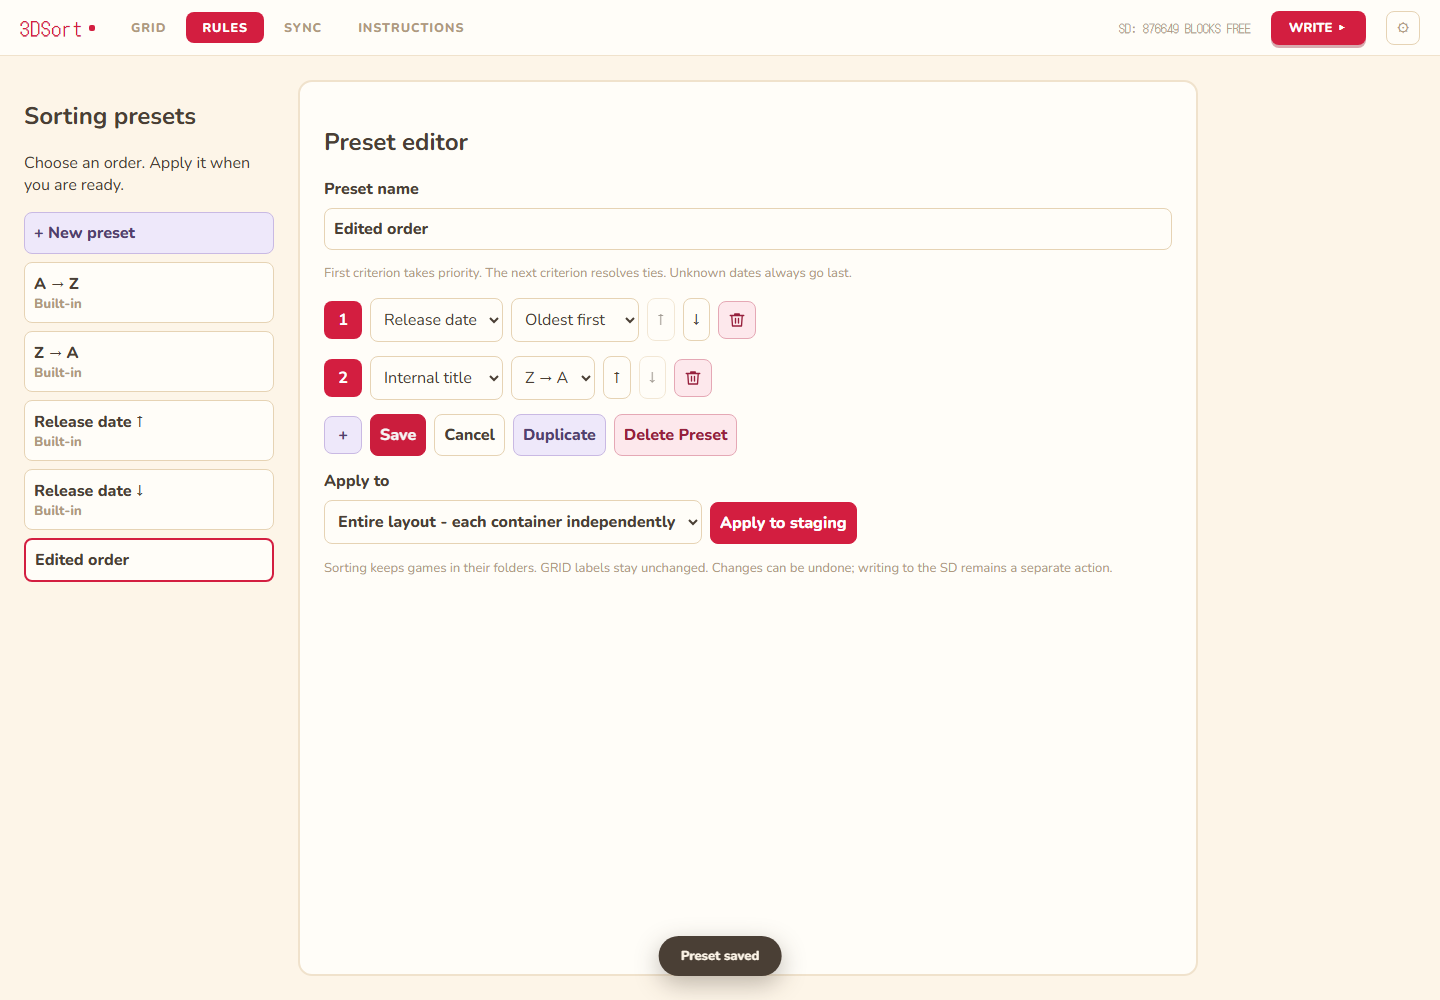
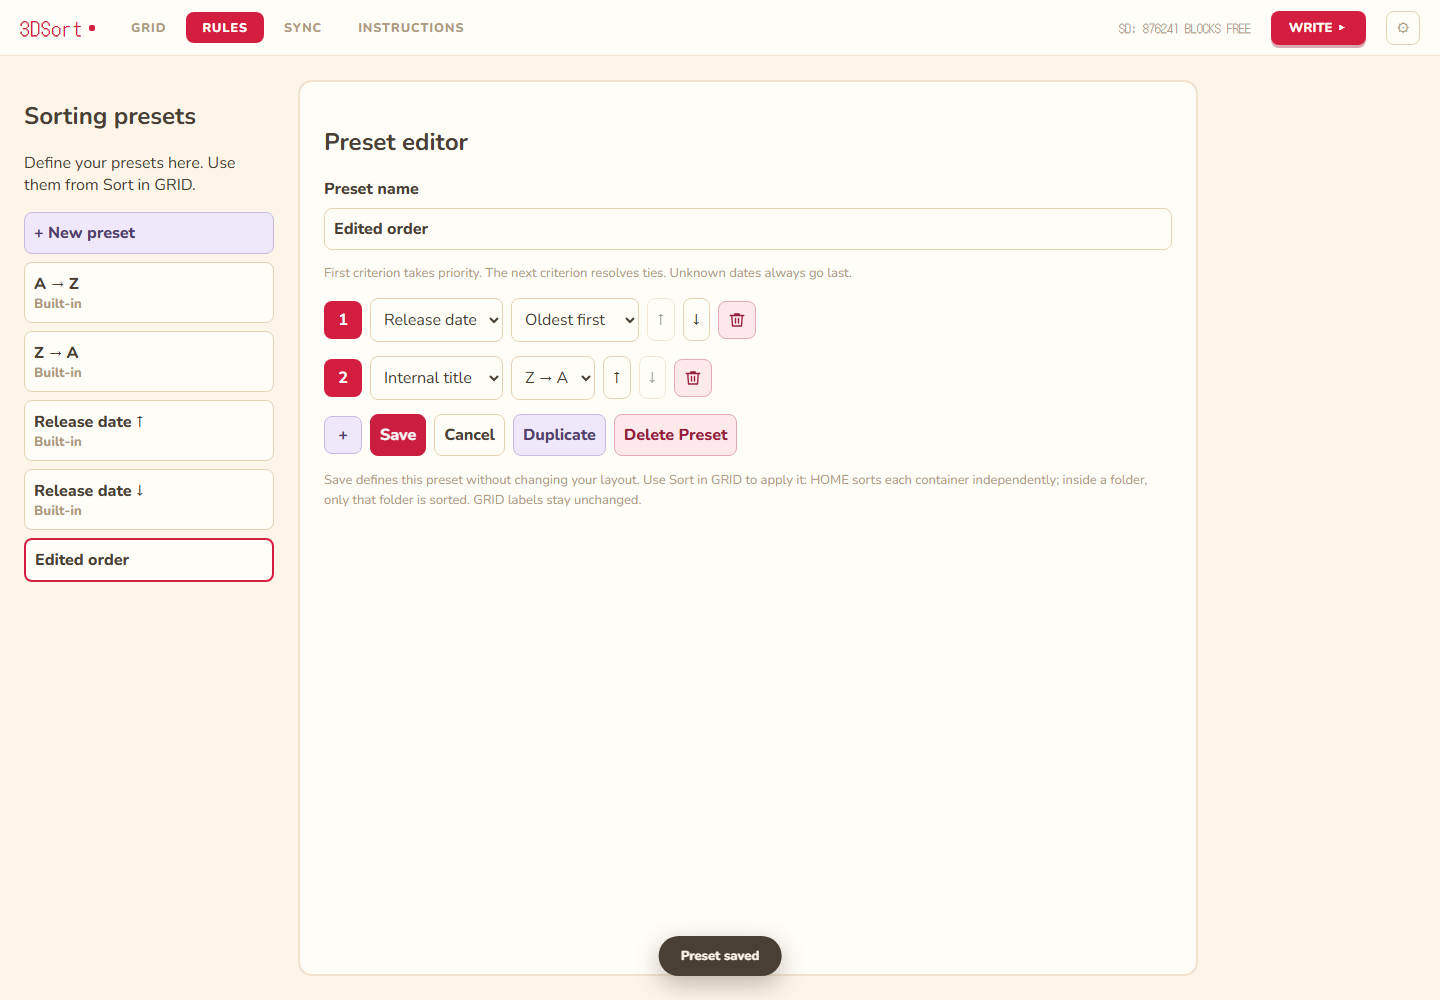
UI: manage presets in RULES and apply only from GRID

Changed region(s): [[0.2188, 0.465, 0.7812, 0.589], [0.0, 0.155, 0.1875, 0.217]]

diff --git a/ui/app.js b/ui/app.js
@@ -124,7 +124,7 @@ const THEMES = [
 const theme = () => THEMES.find(t => t.id === P.themeId) || THEMES[0];
 
 let presetLibrary = { presets: [], warning: null };
-let ruleDraft = null, ruleSaved = null, ruleScope = "", ruleError = "";
+let ruleDraft = null, ruleSaved = null, ruleError = "";
 const criterionLabels = { internal_title: "Internal title", official_title: "Official title", release_date: "Release date" };
 function rulesDirty() { return JSON.stringify(ruleDraft) !== JSON.stringify(ruleSaved); }
 function selectRule(preset) {
@@ -438,7 +438,7 @@ function statusBar() {
 function rulesScreen() {
   const d = ruleDraft, locked = d && d.builtin;
   return `<div class="rules-page">
-    <aside class="rules-library"><h2>Sorting presets</h2><p>Choose an order. Apply it when you are ready.</p>
+    <aside class="rules-library"><h2>Sorting presets</h2><p>Define your presets here. Use them from Sort in GRID.</p>
     <button id="newSortPreset">+ New preset</button>
     ${presetLibrary.warning ? `<p role="alert">${esc(presetLibrary.warning)}</p>` : ""}
     ${presetLibrary.presets.map(p => `<button data-select-preset="${esc(p.id)}" class="${d && d.id === p.id ? 'active' : ''}">${esc(p.name)}${p.builtin ? '<small>Built-in</small>' : ''}</button>`).join("")}</aside>
@@ -451,8 +451,7 @@ function rulesScreen() {
       ${locked ? '' : `<button data-rule-up="${i}" aria-label="Move criterion ${i + 1} up" ${i === 0 ? 'disabled' : ''}>&#8593;</button><button data-rule-down="${i}" aria-label="Move criterion ${i + 1} down" ${i === d.criteria.length - 1 ? 'disabled' : ''}>&#8595;</button><button data-rule-remove="${i}" aria-label="Remove criterion ${i + 1}" title="Remove criterion"><svg width="18" height="18" viewBox="0 0 24 24" fill="none" stroke="currentColor" stroke-width="1.8" stroke-linecap="round" stroke-linejoin="round" aria-hidden="true" focusable="false"><path d="M3 6h18M9 6V4h6v2M5 6l1 14h12l1-14M10 10v6M14 10v6"/></svg></button>`}</div>`).join('')}</div>
     <div class="rules-actions">${locked ? '' : `<button id="addSortCriterion" aria-label="Add criterion" title="Add criterion" ${d.criteria.length >= 3 ? 'disabled' : ''}>+</button><button id="saveSortPreset">Save</button><button id="cancelSortPreset">Cancel</button>`}<button id="duplicateSortPreset">Duplicate</button>${d.id && !locked ? '<button id="deleteSortPreset">Delete Preset</button>' : ''}</div>
     <p role="alert" id="sortPresetError">${esc(ruleError)}</p>
-    <div class="rules-apply"><label>Apply to<select id="sortPresetScope"><option value="">Entire layout - each container independently</option>${Object.entries(S.folderNames).map(([id,name]) => `<option value="${id}" ${ruleScope === id ? 'selected' : ''}>Folder: ${esc(name)}</option>`).join('')}</select></label><button id="applySortPreset" ${!d.id || rulesDirty() ? 'disabled' : ''}>Apply to staging</button></div>
-    <p>Sorting keeps games in their folders. GRID labels stay unchanged. Changes can be undone; writing to the SD remains a separate action.</p>` : '<p>Create a preset or select one from the library.</p>'}
+    <p>Save defines this preset without changing your layout. Use Sort in GRID to apply it: HOME sorts each container independently; inside a folder, only that folder is sorted. GRID labels stay unchanged.</p>` : '<p>Create a preset or select one from the library.</p>'}
     </section></div>`;
 }
 
@@ -462,10 +461,9 @@ function bindRules() {
   if (!byId('newSortPreset')) return;
   byId('newSortPreset').onclick = () => selectRule({name: '', criteria: [{field: 'internal_title', direction: 'asc'}]});
   if (!ruleDraft) return;
-  const update = () => { byId('applySortPreset').disabled = !ruleDraft.id || rulesDirty(); };
-  byId('sortPresetName').oninput = e => { ruleDraft.name = e.target.value; update(); };
+  byId('sortPresetName').oninput = e => { ruleDraft.name = e.target.value; };
   document.querySelectorAll('[data-criterion]').forEach(el => el.onchange = () => { ruleDraft.criteria[+el.dataset.criterion].field = el.value; render(); });
-  document.querySelectorAll('[data-direction]').forEach(el => el.onchange = () => { ruleDraft.criteria[+el.dataset.direction].direction = el.value; update(); });
+  document.querySelectorAll('[data-direction]').forEach(el => el.onchange = () => { ruleDraft.criteria[+el.dataset.direction].direction = el.value; });
   for (const [attr, delta] of [['ruleUp', -1], ['ruleDown', 1]]) {
     document.querySelectorAll(`[data-${attr === 'ruleUp' ? 'rule-up' : 'rule-down'}]`).forEach(el => el.onclick = () => {
       const i = +el.dataset[attr], j = i + delta;
@@ -487,11 +485,6 @@ function bindRules() {
     if (!window.confirm('Delete this sorting preset?')) return;
     const result = await call('delete_sort_preset', [ruleDraft.id]);
     if (result) { presetLibrary = result; ruleDraft = ruleSaved = null; render(); }
-  };
-  byId('sortPresetScope').onchange = e => { ruleScope = e.target.value; };
-  byId('applySortPreset').onclick = async () => {
-    const name = ruleDraft.name, scope = ruleScope === '' ? null : +ruleScope;
-    if (await refresh('sort_preset', [ruleDraft.id, P.viewRows, scope])) toast(`Applied ${name} to ${scope === null ? 'entire layout' : S.folderNames[scope]} (staged)`);
   };
 }
 

diff --git a/ui/index.html b/ui/index.html
@@ -96,7 +96,7 @@ body{margin:0;background:var(--bg);font-family:'Nunito',system-ui,sans-serif;col
 .rules-page button:disabled {opacity:.5; cursor:default;}
 .rules-page button:not(:disabled):hover {filter:brightness(.96);}
 .rules-page button:focus-visible {outline:3px solid var(--ink); outline-offset:3px;}
-.rules-page #saveSortPreset, .rules-page #applySortPreset {background:var(--red); border-color:var(--red); color:#fff;}
+.rules-page #saveSortPreset {background:var(--red); border-color:var(--red); color:#fff;}
 .rules-page #newSortPreset, .rules-page #addSortCriterion, .rules-page #duplicateSortPreset {background:#eee8fa; border-color:#c9b9e3; color:#51406e;}
 .rules-page #deleteSortPreset, .rules-page [data-rule-remove] {background:#fde8ec; border-color:#e5a8b5; color:#96203c;}
 .rules-library button {display:block; width:100%; text-align:left; margin:8px 0;}
@@ -105,8 +105,7 @@ body{margin:0;background:var(--bg);font-family:'Nunito',system-ui,sans-serif;col
 .rules-editor {flex:1; max-width:900px; background:var(--card); border:2px solid var(--line); border-radius:14px; padding:24px;}
 .rules-editor label {display:flex; flex-direction:column; gap:8px; font-weight:800;}
 .rules-editor p {color:var(--mut); font-size:13px; line-height:1.6;}
-.rules-criterion, .rules-actions, .rules-apply {display:flex; gap:8px; align-items:center; margin:14px 0; flex-wrap:wrap;}
-.rules-apply {align-items:flex-end;}
+.rules-criterion, .rules-actions {display:flex; gap:8px; align-items:center; margin:14px 0; flex-wrap:wrap;}
 .rules-criterion strong, .rules-page #addSortCriterion, .rules-page [data-rule-remove] {box-sizing:border-box; width:38px; height:38px; padding:0; display:inline-flex; align-items:center; justify-content:center; flex-shrink:0;}
 .rules-criterion strong {background:var(--red); color:white; border-radius:8px;}
 #sortPresetError {color:var(--red);}

diff --git a/docs/SORT_PRESETS.md b/docs/SORT_PRESETS.md
@@ -2,13 +2,15 @@
 
 Open RULES, choose New preset, give it a name, and add up to three distinct criteria.
 Use the numbered rows and arrow buttons to choose priority; each row has its own
-direction. Save, choose the entire layout or a named folder, and Apply to staging.
-Saved presets also appear in the GRID Sort menu, including inside folders.
+direction. Save stores the configuration without changing the layout.
+To use a saved preset, select it from Sort in GRID. From HOME, each container is
+sorted independently; inside a folder, only that folder is sorted. RULES has no
+application action or saved target scope.
 Built-ins are read-only; Duplicate starts an editable copy. Save and Delete affect
-only the preset library. Apply affects layout staging and supports Undo/Redo.
+only the preset library. Sorting from GRID affects layout staging and supports Undo/Redo.
 Sorting never runs automatically and never writes directly to the SD card.
 
-![RULES with a saved custom preset, priority editor and explicit application scope](images/rules.png)
+![RULES with a saved custom preset, priority editor](images/rules.png)
 
 ## Comparison and safety
 

diff --git a/README.md b/README.md
@@ -45,7 +45,7 @@ for Linux. No installer, no Python.
 - Sort globally or inside an individual folder: A to Z, Z to A or by release date, DSiWare and NDS forwarders included
 - Build reusable sorting presets in **RULES**: prioritize internal title, offline
   commercial title, and release date with independent directions. Apply globally
-  or to one folder from RULES or GRID. [Sorting guide](docs/SORT_PRESETS.md)
+  or to one folder using Sort in GRID. [Sorting guide](docs/SORT_PRESETS.md)
 - Create, rename and delete folders, and give them a badge as icon
 - Place the badges from your collection on the grid (3DSort does not install
   badges; tools like [GYTB](https://wiki.hacks.guide/wiki/3DS:GYTB) do)
